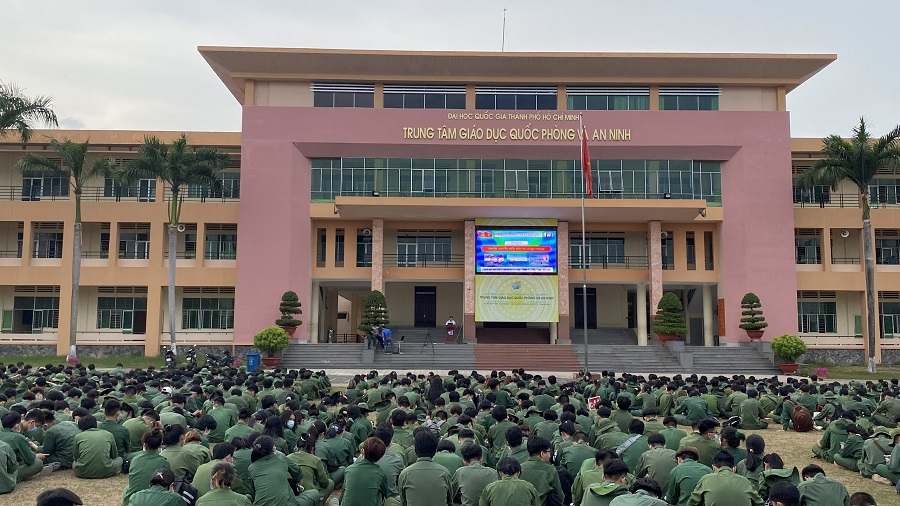
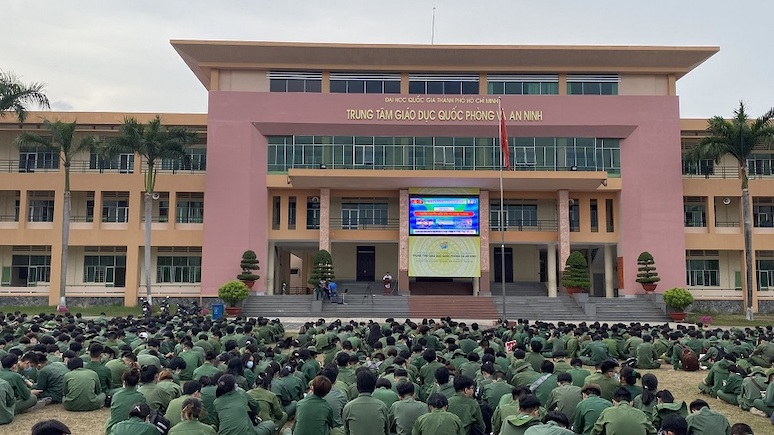
Update images

diff --git a/index.html b/index.html
@@ -124,7 +124,7 @@
     <section id="wed_content" class="wed_content">
         <div class="fw-page-builder-content">
             <section class="wed_section_inner wed_image_bck wed_wht_txt wed_fixed  "
-                     style=background-image:url(images/DSC_6361.JPG); data-stellar-background-ratio="0.2">
+                     style=background-image:url(images/chungdoi.jpg); data-stellar-background-ratio="0.2">
                 <div class="wed_over" data-color="#000000" data-opacity="0.3"></div>
                 <div class="container ">
                     <div class="fw-row">
@@ -235,11 +235,11 @@
                                                 <div class="wed_portfolio_item wed_story_img">
                                                     <div class="wed_portfolio_item_cont wed_story_cont wed_image_bck"
                                                          data-border="#edc082"><img class="wed_img_height"
-                                                                                    src="images/start.jpg"
+                                                                                    src="images/ttgdqp.jpg"
                                                                                     alt=""> <span
                                                             class="wed_port_titles"> <span class="wed_port_title">Trung tâm Giáo dục Quốc phòng - An ninh</span> <span
                                                             class="wed_port_subtitle">Đại học quốc gia</span> <span
-                                                            class="wed_port_icons"> <a href="images/start.jpg"
+                                                            class="wed_port_icons"> <a href="images/ttgdqp.jpg"
                                                                                        class="lightbox"><i
                                                             class="ti ti-search"></i></a> </span> </span>
                                                     </div>
@@ -461,9 +461,7 @@
                                                     <div class="wed_month_year">2022+</div>
                                                     <h3>To be continued...</h3>
                                                     <h5>Wedding is not an end, it's a remarkable point on our road</h5>
-                                                    <p>Let's move on! We're waiting for little Anas (Anacita) and little
-                                                        Lys (Linuta) and many other great things of being together cuz
-                                                        we do love each other.</p>
+                                                    <p></p>
                                                 </div>
                                             </div>
                                             <div class="wed_vertical_line wed_line_top hidden-sm hidden-xs wed_image_bck"
@@ -695,8 +693,8 @@
                                     <div class="wed_over" data-color="#edc082" data-opacity="0.9"></div>
                                     <div class="wed_map">
                                         <p>
-                                            <iframe src="https://www.google.com/maps/embed?pb=!1m18!1m12!1m3!1d3724.3825103665426!2d105.78183611427684!3d21.017375493544204!2m3!1f0!2f0!3f0!3m2!1i1024!2i768!4f13.1!3m3!1m2!1s0x3135ab54ef80077d%3A0x1c375dcb13b05376!2zS2VhbmduYW0sIE3hu4UgVHLDrCwgVOG7qyBMacOqbSwgSGFub2ksIFZpZXRuYW0!5e0!3m2!1sen!2s!4v1535637245257"
-                                                    width="300" height="150"></iframe>
+                                            <iframe src="https://www.google.com/maps/embed?pb=!1m18!1m12!1m3!1d3919.374879211996!2d106.64086121480082!3d10.782573192317363!2m3!1f0!2f0!3f0!3m2!1i1024!2i768!4f13.1!3m3!1m2!1s0x317529517a788af7%3A0xcefefb3839f8e1bb!2sDiamond%20Palace%20II!5e0!3m2!1sen!2s!4v1652716352412!5m2!1sen!2s" 
+                                             width="600" height="450" style="border:0;" allowfullscreen="" loading="lazy" referrerpolicy="no-referrer-when-downgrade"></iframe>
                                         </p>
                                     </div>
                                 </div>
@@ -770,57 +768,57 @@
                                         </div>
 -->
 
-                                        <div class="col-sm-4 wed_portfolio_item grid-item"><a href="images/co3-1.jpg"
+                                        <div class="col-sm-4 wed_portfolio_item grid-item"><a href="images/027_0301.JPG"
                                                                                               class="lightbox wed_portfolio_item_cont">
-                                            <img alt="" src="images/co3-1.jpg"/> <span
+                                            <img alt="" src="images/027_0301.JPG"/> <span
                                                 class="wed_port_titles"> <span class="wed_port_title"></span> <span
                                                 class="wed_port_icons"> <i class="ti ti-search"></i> </span> </span></a>
                                         </div>
-                                        <div class="col-sm-4 wed_portfolio_item grid-item"><a href="images/co3-2.jpg"
+                                        <div class="col-sm-4 wed_portfolio_item grid-item"><a href="images/027_0305.JPG"
                                                                                               class="lightbox wed_portfolio_item_cont">
-                                            <img alt="" src="images/co3-2.jpg"/> <span
+                                            <img alt="" src="images/027_0305.JPG"/> <span
                                                 class="wed_port_titles"> <span class="wed_port_title"></span> <span
                                                 class="wed_port_icons"> <i class="ti ti-search"></i> </span> </span></a>
                                         </div>
-                                        <div class="col-sm-4 wed_portfolio_item grid-item"><a href="images/co3-3.jpg"
+                                        <div class="col-sm-4 wed_portfolio_item grid-item"><a href="images/027_0308.JPG"
                                                                                               class="lightbox wed_portfolio_item_cont">
-                                            <img alt="" src="images/co3-3.jpg"/> <span
+                                            <img alt="" src="images/027_0308.JPG"/> <span
                                                 class="wed_port_titles"> <span class="wed_port_title"></span> <span
                                                 class="wed_port_icons"> <i class="ti ti-search"></i> </span> </span></a>
                                         </div>
-                                        <div class="col-sm-4 wed_portfolio_item grid-item"><a href="images/co3-4.jpg"
+                                        <div class="col-sm-4 wed_portfolio_item grid-item"><a href="images/027_0363.JPG"
                                                                                               class="lightbox wed_portfolio_item_cont">
-                                            <img alt="" src="images/co3-4.jpg"/> <span
+                                            <img alt="" src="images/027_0363.JPG"/> <span
                                                 class="wed_port_titles"> <span class="wed_port_title"></span> <span
                                                 class="wed_port_icons"> <i class="ti ti-search"></i> </span> </span></a>
                                         </div>
-                                        <div class="col-sm-4 wed_portfolio_item grid-item"><a href="images/co3-5.jpg"
+                                        <div class="col-sm-4 wed_portfolio_item grid-item"><a href="images/027_0399.JPG"
                                                                                               class="lightbox wed_portfolio_item_cont">
-                                            <img alt="" src="images/co3-5.jpg"/> <span
+                                            <img alt="" src="images/027_0399.JPG"/> <span
                                                 class="wed_port_titles"> <span class="wed_port_title"></span> <span
                                                 class="wed_port_icons"> <i class="ti ti-search"></i> </span> </span></a>
                                         </div>
-                                        <div class="col-sm-4 wed_portfolio_item grid-item"><a href="images/co3-6.jpg"
+                                        <div class="col-sm-4 wed_portfolio_item grid-item"><a href="images/027_0453.JPG"
                                                                                               class="lightbox wed_portfolio_item_cont">
-                                            <img alt="" src="images/co3-6.jpg"/> <span
+                                            <img alt="" src="images/027_0453.JPG"/> <span
                                                 class="wed_port_titles"> <span class="wed_port_title"></span> <span
                                                 class="wed_port_icons"> <i class="ti ti-search"></i> </span> </span></a>
                                         </div>
-                                        <div class="col-sm-4 wed_portfolio_item grid-item"><a href="images/co3-7.jpg"
+                                        <div class="col-sm-4 wed_portfolio_item grid-item"><a href="images/DSC_6593.JPG"
                                                                                               class="lightbox wed_portfolio_item_cont">
-                                            <img alt="" src="images/co3-7.jpg"/> <span
+                                            <img alt="" src="images/DSC_6593.JPG"/> <span
                                                 class="wed_port_titles"> <span class="wed_port_title"></span> <span
                                                 class="wed_port_icons"> <i class="ti ti-search"></i> </span> </span></a>
                                         </div>
-                                        <div class="col-sm-4 wed_portfolio_item grid-item"><a href="images/co3-8.jpg"
+                                        <div class="col-sm-4 wed_portfolio_item grid-item"><a href="images/DSC_6682.JPG"
                                                                                               class="lightbox wed_portfolio_item_cont">
-                                            <img alt="" src="images/co3-8.jpg"/> <span
+                                            <img alt="" src="images/DSC_6682.JPG"/> <span
                                                 class="wed_port_titles"> <span class="wed_port_title"></span> <span
                                                 class="wed_port_icons"> <i class="ti ti-search"></i> </span> </span></a>
                                         </div>
-                                        <div class="col-sm-4 wed_portfolio_item grid-item"><a href="images/co3-9.jpg"
+                                        <div class="col-sm-4 wed_portfolio_item grid-item"><a href="images/DSC_6785.JPG"
                                                                                               class="lightbox wed_portfolio_item_cont">
-                                            <img alt="" src="images/co3-9.jpg"/> <span
+                                            <img alt="" src="images/DSC_6785.JPG"/> <span
                                                 class="wed_port_titles"> <span class="wed_port_title"></span> <span
                                                 class="wed_port_icons"> <i class="ti ti-search"></i> </span> </span></a>
                                         </div>
